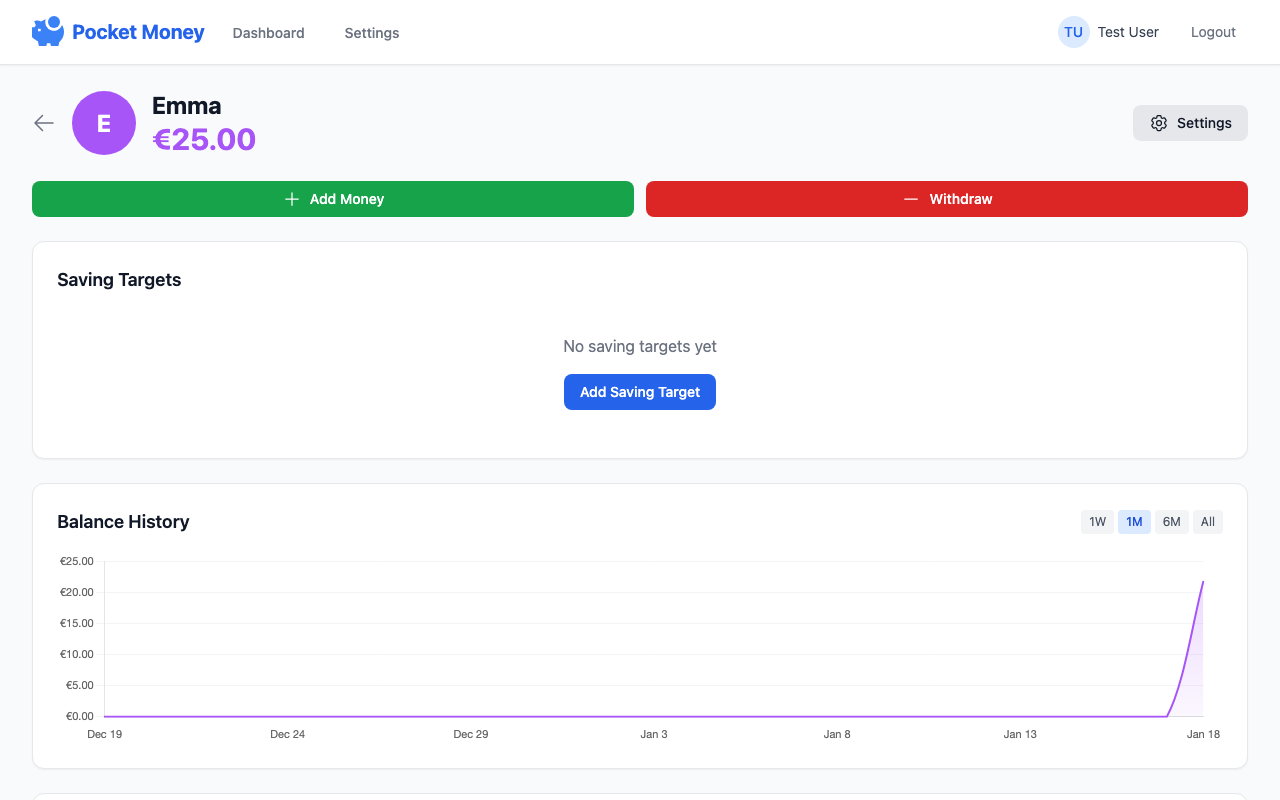
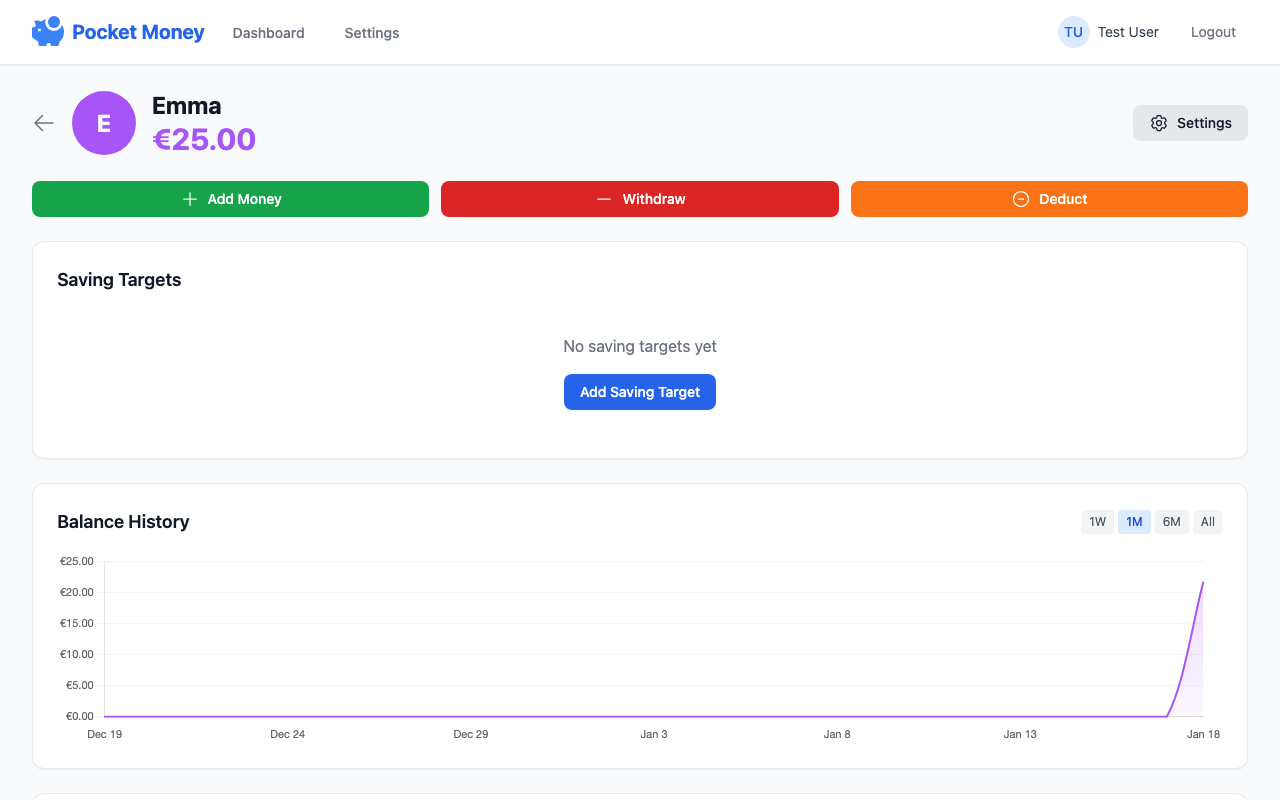
Update documentation and screenshots for new features
Documentation updates:
- recurring-payments.md: day selection, deductions, editing
- saving-targets.md: time-to-target estimates
- children.md: upcoming payments, deductions
- CONTRIBUTING.md: simplified migration instructions
- CLAUDE.md: simplified migration instructions
- TODO.md: mark all items as completed

Screenshots regenerated to show:
- New recurring payment modal with day selection
- Updated child settings with new recurring payment format

diff --git a/scripts/capture-screenshots.ts b/scripts/capture-screenshots.ts
@@ -130,6 +130,11 @@ async function main() {
 		await page.click('button:has-text("Add Rule")');
 		await page.waitForSelector('text=Add Recurring Payment >> visible=true');
 		await page.fill('input#recurringAmount', '5');
+		// Select "Weekly" frequency (already default, but be explicit)
+		await page.selectOption('select#intervalType', 'weekly');
+		await page.waitForTimeout(100);
+		// Select Saturday as the day
+		await page.selectOption('select#dayOfWeek', '6');
 		await page.fill('input#recurringDescription', 'Weekly allowance');
 		await screenshot(page, 'add-recurring-modal');
 

diff --git a/docs/guide/recurring-payments.md b/docs/guide/recurring-payments.md
@@ -7,23 +7,30 @@ Set up automatic allowance deposits on any schedule.
 1. Go to a child's settings (gear icon on their profile)
 2. In the **Recurring Payments** section, click **Add Rule**
 3. Enter the amount
-4. Choose the interval:
+4. Choose the frequency:
    - **Daily** - Every day
-   - **Weekly** - Every 7 days
-   - **Bi-weekly** - Every 14 days
-   - **Monthly** - Every 30 days
+   - **Weekly** - Choose which day of the week
+   - **Monthly** - Choose which day of the month (1-28)
 5. Add an optional description (e.g., "Weekly allowance")
 6. Click **Add**
 
 ![Add Recurring Payment](../assets/screenshots/add-recurring-modal.png)
 
-The first payment will be deposited at the next scheduled interval.
+The first payment will be deposited at the next scheduled time.
 
 ## Managing Recurring Payments
 
 ![Recurring Payments](../assets/screenshots/child-settings-configured.png)
 
 Each recurring payment can be:
+
+### Edited
+
+Click the pencil icon to modify an existing rule:
+
+- Change the amount
+- Change the frequency and day
+- Update the description
 
 ### Paused / Resumed
 
@@ -33,19 +40,50 @@ Toggle the rule on or off without deleting it. Useful for:
 - When allowance is temporarily suspended
 - Testing the setup
 
-### Skip Next Payment
-
-Skip just the next scheduled payment, then continue as normal. The skip flag resets after one payment cycle.
-
-Use this when:
-
-- A child already received extra money
-- You want to skip a holiday week
-- One-time adjustment needed
-
 ### Deleted
 
 Remove the rule entirely. Use the trash icon to delete.
+
+## Deductions
+
+Instead of skipping payments entirely, you can add deductions that reduce upcoming payments. This is useful when:
+
+- A child misbehaved and should receive less allowance
+- You want to partially reduce (not skip) a payment
+- You need flexibility in how much to deduct
+
+### Adding a Deduction
+
+1. Open a child's profile
+2. Click the **Deduct** button (orange)
+3. Enter the deduction amount (pre-filled with the next payment amount)
+4. Add an optional description
+5. Click **Add Deduction**
+
+### How Deductions Work
+
+- Deductions stack - you can add multiple deductions
+- They are applied to payments in order (oldest first)
+- If a deduction equals or exceeds a payment, the payment is skipped entirely
+- If a deduction is less than a payment, the payment is reduced
+- Any remaining deduction amount rolls over to the next payment
+
+**Example:**
+
+- Weekly allowance: $10
+- Deduction added: $15
+- First week: Payment skipped entirely ($10 consumed from deduction)
+- Second week: Payment reduced to $5 ($5 remaining deduction consumed)
+- Third week: Full $10 payment
+
+### Managing Deductions
+
+When deductions are pending, a card appears on the child's profile showing:
+
+- Total deduction amount
+- Number of pending deductions
+
+Click the **Deduct** button or the arrow on the card to view and delete individual deductions.
 
 ## When Payments Run
 
@@ -64,20 +102,22 @@ Recurring payments appear in the transaction history as:
 
 ## Examples
 
-### Weekly Allowance
+### Weekly Allowance on Saturdays
 
 - Amount: $10
-- Interval: Weekly (7 days)
+- Frequency: Weekly
+- Day: Saturday
 - Description: "Weekly allowance"
 
 ### Monthly Savings Bonus
 
 - Amount: $5
-- Interval: Monthly (30 days)
+- Frequency: Monthly
+- Day: 1st of the month
 - Description: "Monthly savings bonus"
 
 ### Daily Chore Payment
 
 - Amount: $1
-- Interval: Daily
+- Frequency: Daily
 - Description: "Daily chores"

diff --git a/docs/guide/children.md b/docs/guide/children.md
@@ -15,9 +15,10 @@ Click on a child's card to view their profile:
 
 - **Balance** - Current total balance
 - **Balance History** - Chart showing balance changes over time
-- **Saving Targets** - Progress toward savings goals (with quick-add button)
+- **Upcoming Payments** - Next 3 scheduled allowance payments with dates
+- **Saving Targets** - Progress toward savings goals (with quick-add button and time estimates)
 - **Recent Transactions** - List of deposits and withdrawals
-- **Recurring Payments** - Active automatic payments
+- **Pending Deductions** - Shows if any deductions will reduce upcoming payments
 
 ![Child Profile](../assets/screenshots/child-profile-with-transaction.png)
 
@@ -47,6 +48,16 @@ Use the buttons in the top-right of the Balance History chart to change the time
 3. Enter the amount (cannot exceed current balance)
 4. Optionally add a description (e.g., "Bought a toy")
 5. Click confirm
+
+## Adding Deductions
+
+Deductions reduce future recurring payments. See [Recurring Payments - Deductions](recurring-payments.md#deductions) for details.
+
+1. Open a child's profile
+2. Click the **Deduct** button (orange)
+3. Enter the deduction amount
+4. Optionally add a description
+5. Click **Add Deduction**
 
 ## Editing a Child
 

diff --git a/CLAUDE.md b/CLAUDE.md
@@ -178,11 +178,23 @@ This catches CI failures locally before pushing.
 
 The docs include screenshots in `docs/assets/screenshots/`. After UI changes, regenerate them:
 
-1. Reset local database: `rm -rf .wrangler && npm run db:migrate && wrangler d1 execute pocket-money-db --local --file=./migrations/0002_photo_data.sql && wrangler d1 execute pocket-money-db --local --file=./migrations/0003_families.sql`
+1. Reset local database: `rm -rf .wrangler && npm run db:migrate`
 2. Start dev server: `npm run dev`
 3. Run: `npm run screenshots`
 
 The script at `scripts/capture-screenshots.ts` automates capturing all screens. See `CONTRIBUTING.md` for details.
+
+## Documentation notes
+
+Admonitions use the following syntax:
+
+```md
+!!! tip "Some title"
+You can write arbitrary text here.
+```
+
+Do not write admontions with `:::` syntax, that doesn't work.
+Docs are built using Zensical.
 
 ## Testing Locally
 

diff --git a/docs/guide/saving-targets.md b/docs/guide/saving-targets.md
@@ -72,6 +72,24 @@ You can change which target gets filled first by reordering them:
 3. Click the delete icon (trash)
 4. The target is removed immediately
 
+## Time-to-Target Estimates
+
+When a child has recurring payments set up, each saving target shows an estimated time to reach the goal.
+
+The estimate is calculated based on:
+
+- Current progress toward the target
+- Monthly income from all active recurring payments
+
+The time is displayed as:
+
+- **Weeks** - For goals reachable within a month
+- **Months** - For goals reachable within a year
+- **Years** - For longer-term goals
+
+!!! tip
+    The estimate updates automatically as the balance changes or recurring payments are adjusted.
+
 ## Target Photos and Links
 
 Adding a photo helps visualize the goal, and a link makes it easy to find the item when ready to purchase.

diff --git a/CONTRIBUTING.md b/CONTRIBUTING.md
@@ -20,11 +20,6 @@ The documentation includes screenshots that may need updating after UI changes.
    ```bash
    rm -rf .wrangler
    npm run db:migrate
-   wrangler d1 execute pocket-money-db --local --file=./migrations/0002_photo_data.sql
-   wrangler d1 execute pocket-money-db --local --file=./migrations/0003_families.sql
-   wrangler d1 execute pocket-money-db --local --file=./migrations/0004_webhooks.sql
-   wrangler d1 execute pocket-money-db --local --file=./migrations/0005_webhook_secret.sql
-   wrangler d1 execute pocket-money-db --local --file=./migrations/0006_saving_target_fields.sql
    ```
 
 2. Start the dev server:

diff --git a/TODO.md b/TODO.md
@@ -1,0 +1,12 @@
+# TODO
+
+No pending items - all features implemented!
+
+## Recently Completed
+
+- [x] Per-child page: show dates + amounts for "upcoming payments" (next 3)
+- [x] Saving targets: show time until will reach target given scheduled payments
+- [x] Recurring payments: weekly day selection, monthly day selection
+- [x] Recurring payments: add ability to edit existing recurring payments
+- [x] Deductions system: replace "skip next" with flexible deductions
+- [x] Mobile styling: fix saving targets overflow on mobile
